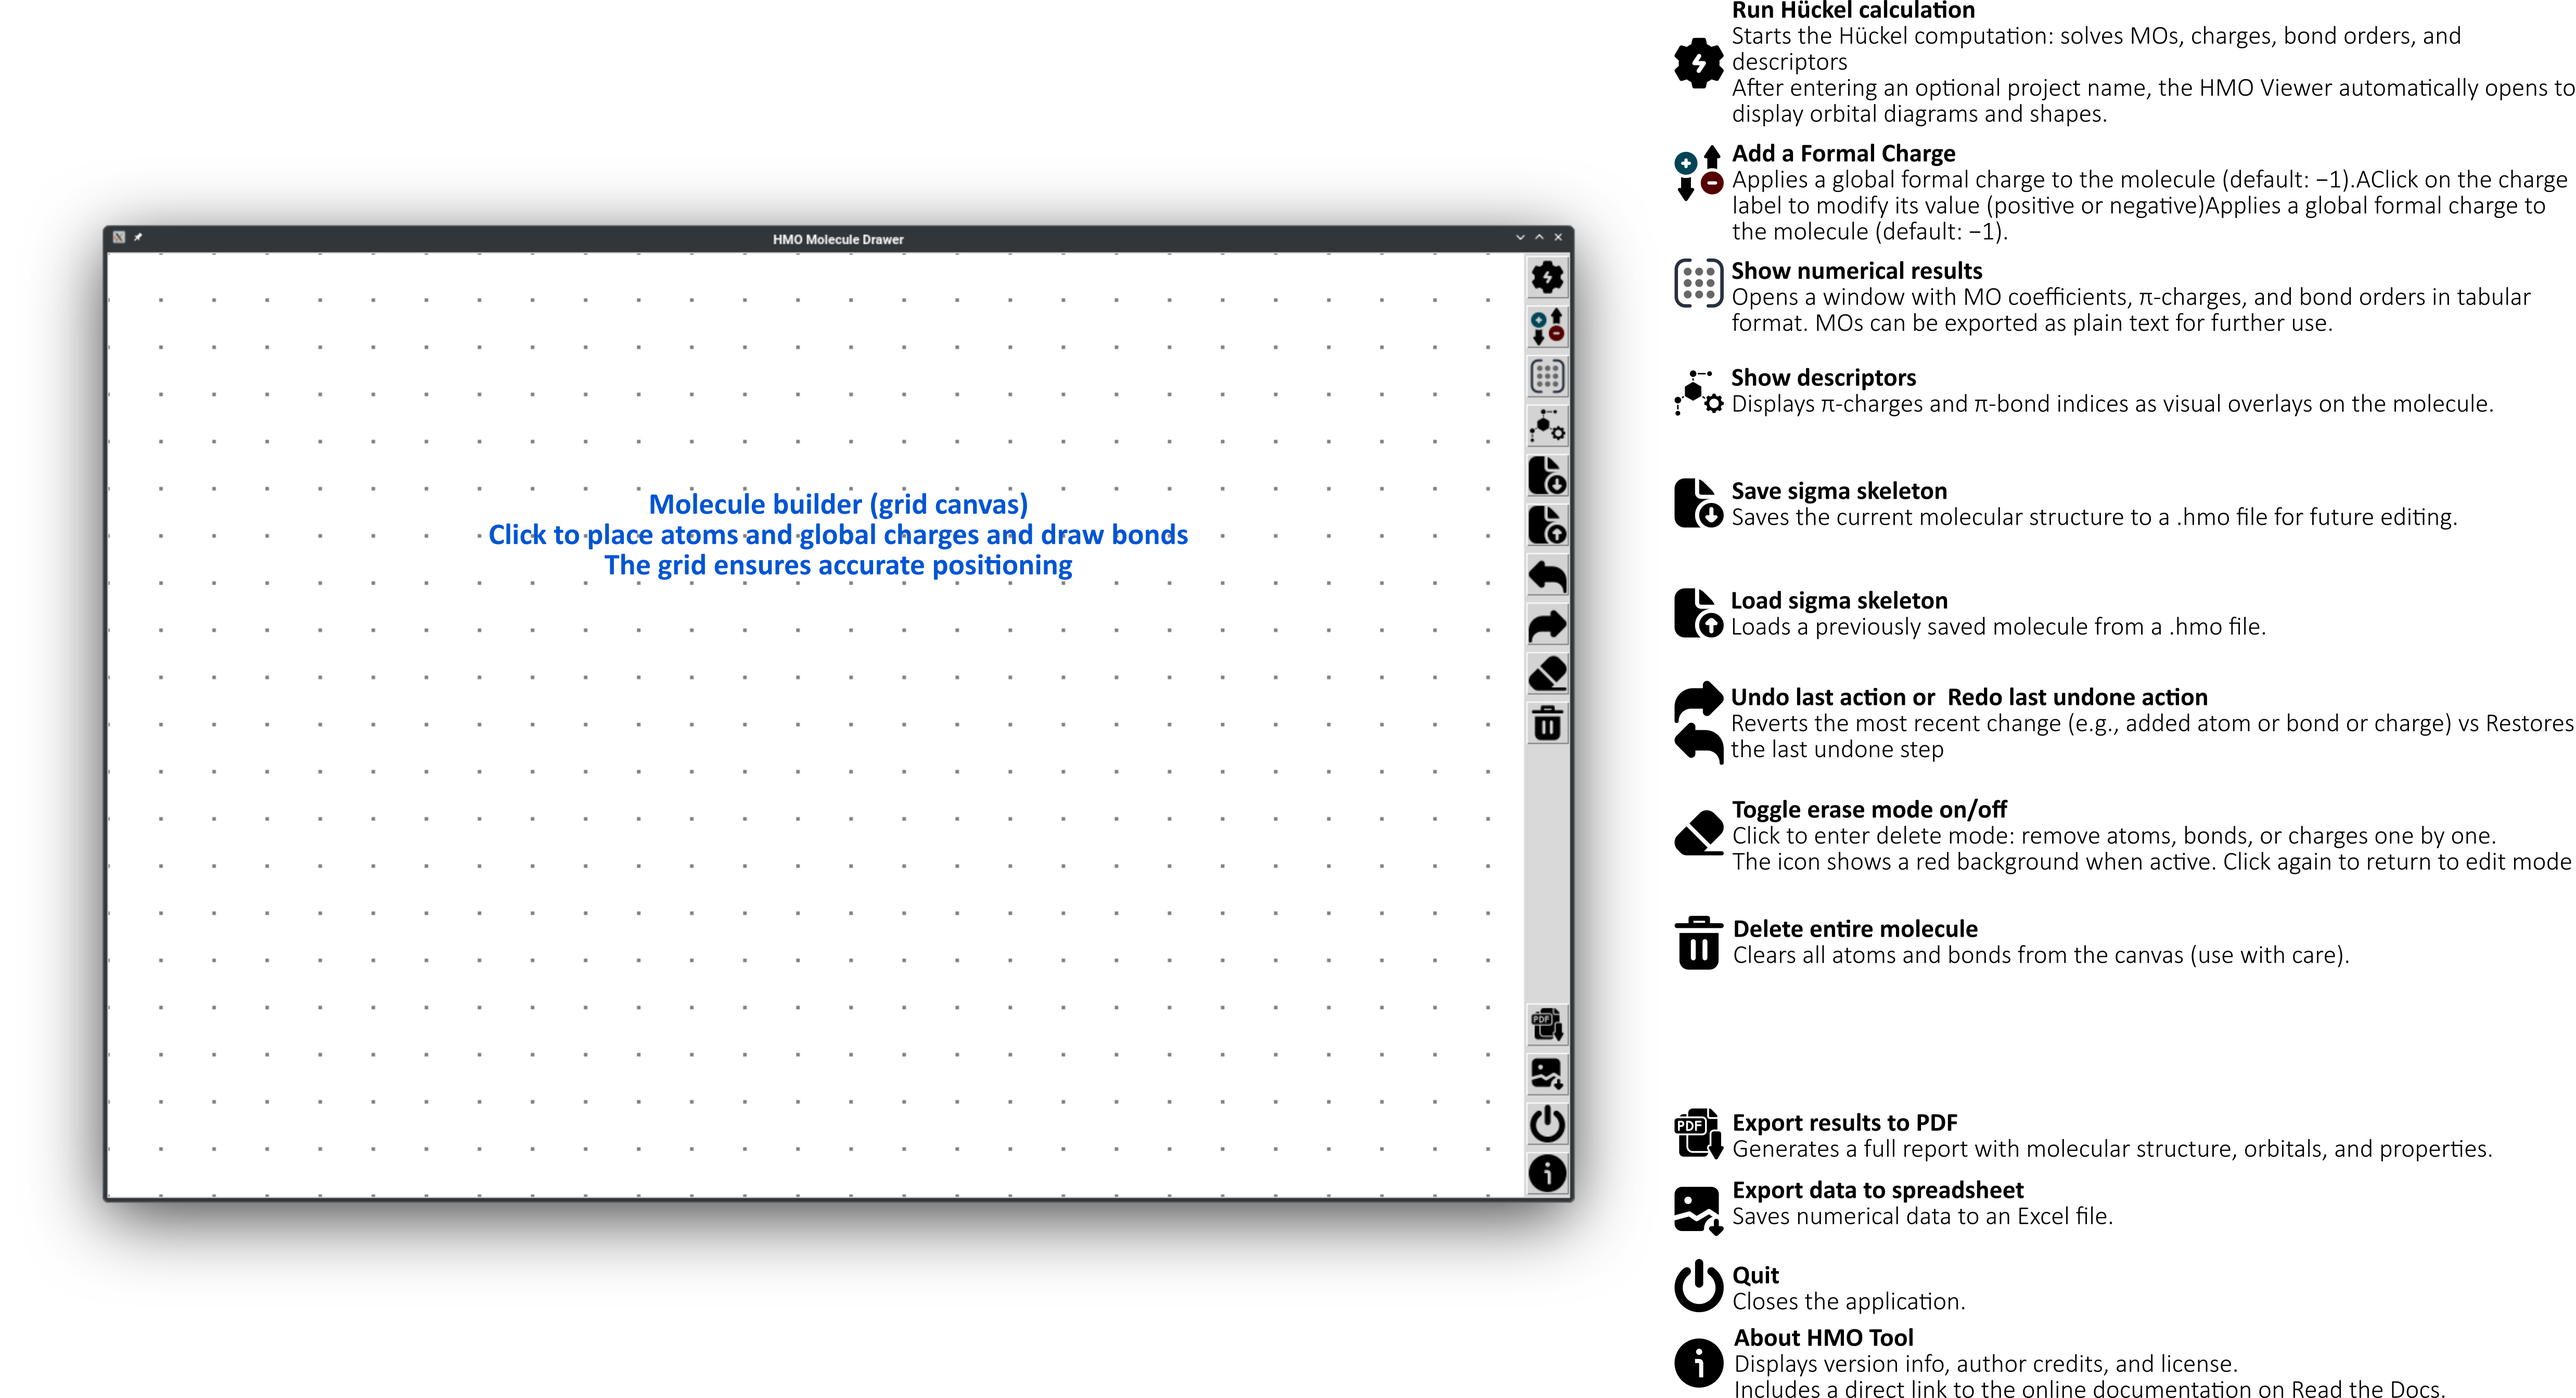
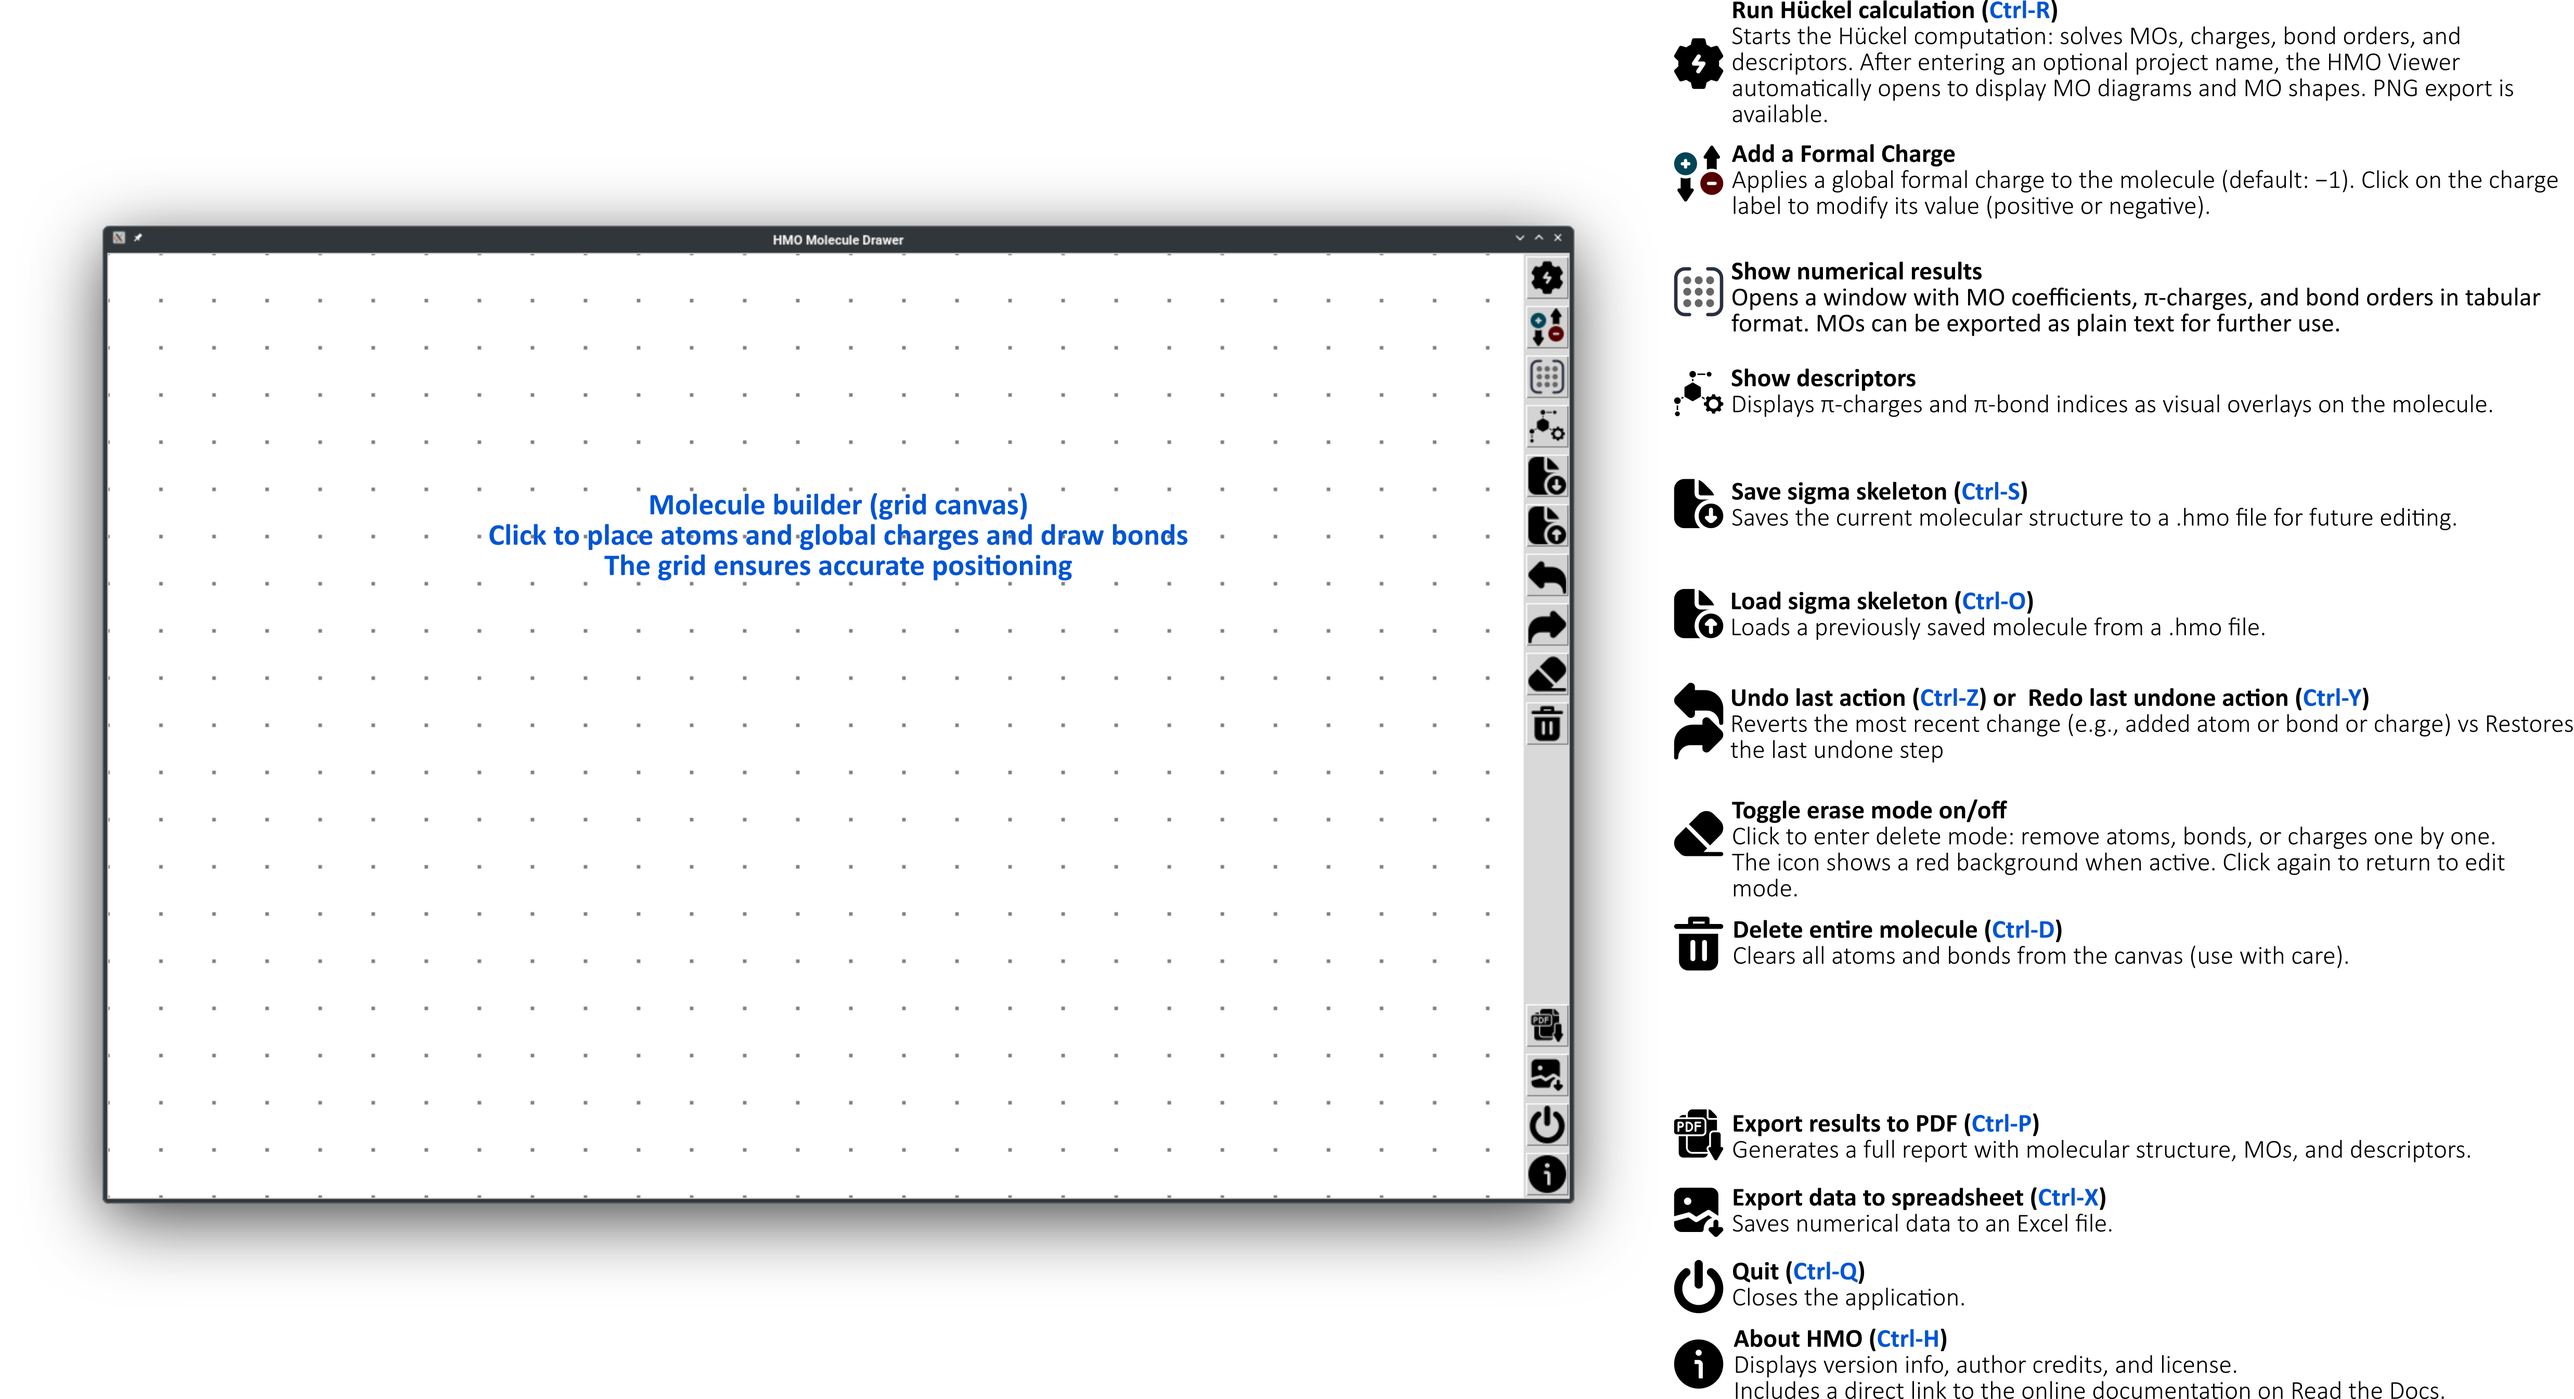
GUI doc

diff --git a/hmo/HMO.py b/hmo/HMO.py
@@ -1491,8 +1491,10 @@ class MoleculeDrawer:
         self.master.bind('<Control-z>', lambda e: self.undo())
         self.master.bind('<Control-y>', lambda e: self.redo())
         self.master.bind('<Control-d>', lambda e: self.clear())
-        self.master.bind('<Control-s>', lambda e: self.save_data())
+        self.master.bind('<Control-p>', lambda e: self.export_all_results_to_pdf())
+        self.master.bind('<Control-l>', lambda e: self.save_data())
         self.master.bind('<Control-q>', lambda e: self.quit_program())
+        self.master.bind('<Control-h>', lambda e: self.show_about())
         
     def set_mode_add_charge(self):
         """Sets the current interaction mode to adding a new charge."""

diff --git a/CHANGELOG.md b/CHANGELOG.md
@@ -4,6 +4,14 @@
 
 # Changelog
 
+## Version 0.6.3 - 2025-05-21
+
+### Added
+- new binding keys for Save data in a spreadsheet (`save_data`, Ctrl-l), About HMO (`show_about`, Ctrl-h), Export all results to PDF (`export_all_results_to_pdf`, Ctrl-P)
+
+### Fixed
+- (Ctrl-S) binding key was used both for saving the speadsheet and the tabular MOs.
+
 ## Version 0.6.2 - 2025-05-21
 
 ### Changed
